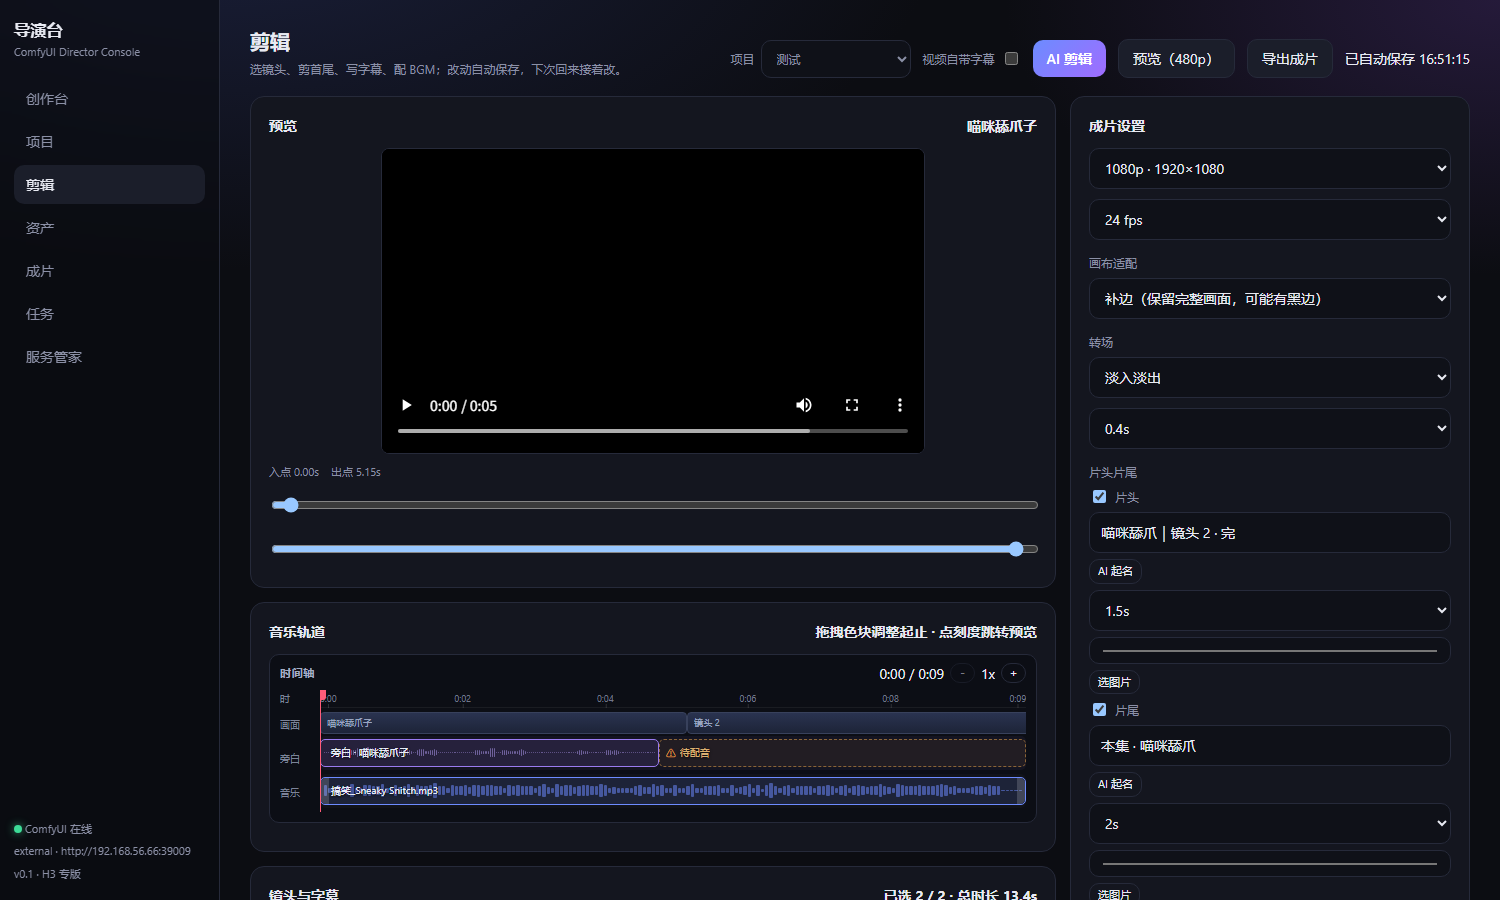
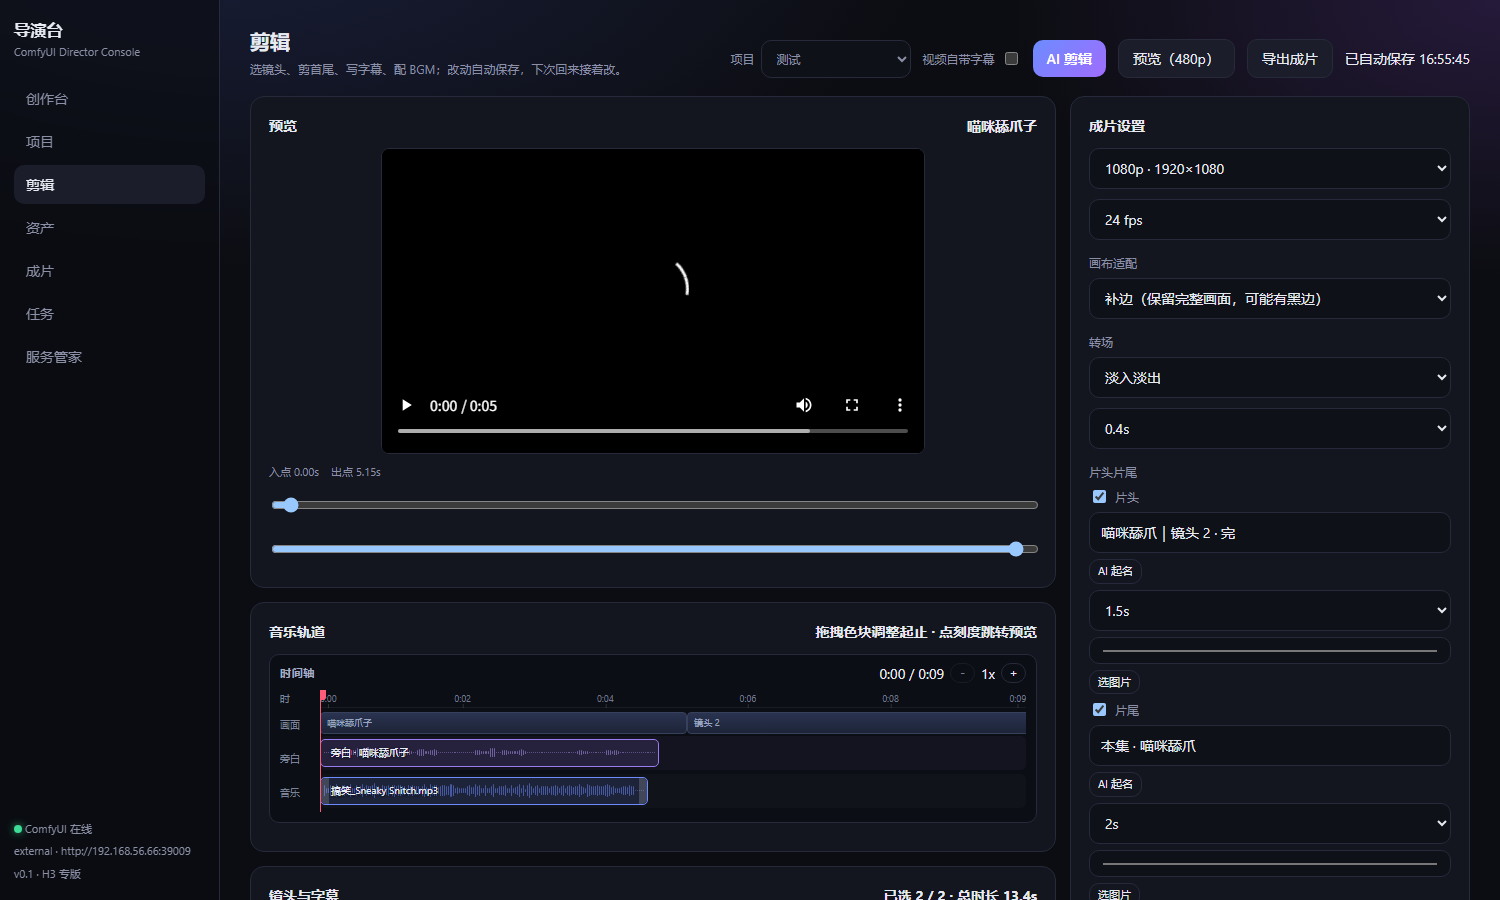
feat(剪辑): 旁白块双击试听，试听统一按区间结束自动停止

Changed region(s): [[0.2147, 0.8089, 0.7053, 0.9022]]

diff --git a/web/src/components/BgmTimeline.tsx b/web/src/components/BgmTimeline.tsx
@@ -59,6 +59,7 @@ export default function BgmTimeline({
   const [zoom, setZoom] = useState(1)
   const [peaks, setPeaks] = useState<Record<string, number[]>>({})
   const [audition, setAudition] = useState('')
+  const auditionEnd = useRef(0)
   const [drag, setDrag] = useState<{
     id: string; mode: DragMode; x0: number; start0: number; end0: number; endOpen: boolean; width: number; moved: boolean
   } | null>(null)
@@ -147,26 +148,38 @@ export default function BgmTimeline({
     onSeek(ratio * total)
   }
 
-  const auditionTrack = async (track: BgmTrackView) => {
-    const url = urls[track.asset_id]
+  const playSegment = async (key: string, assetId: string, from: number, until: number, volume: number) => {
+    const url = urls[assetId]
     if (!url) return
-    if (audition === track.id) {
-      audioRef.current?.pause()
+    const audio = audioRef.current
+    if (!audio) return
+    if (audition === key) {
+      audio.pause()
       setAudition('')
       return
     }
-    const audio = audioRef.current
-    if (!audio) return
+    audio.pause()
     audio.src = url
-    audio.currentTime = track.start
-    audio.volume = Math.max(0, Math.min(1, Math.pow(10, track.volume_db / 20)))
+    audio.currentTime = Math.max(0, from)
+    audio.volume = Math.max(0, Math.min(1, volume))
+    auditionEnd.current = until
     try {
       await audio.play()
-      setAudition(track.id)
+      setAudition(key)
     } catch {
       setAudition('')
     }
   }
+
+  const auditionTrack = (track: BgmTrackView) =>
+    playSegment(track.id, track.asset_id, track.start, track.end ?? total,
+      Math.pow(10, track.volume_db / 20))
+
+  // 旁白：从 0 播到镜头区间结束
+  const auditionNarration = (clip: NarrationClip) =>
+    playSegment(`nar:${clip.shot_id}`, clip.asset_id, 0,
+      clip.audio_duration > 0 ? Math.min(clip.audio_duration, clip.end - clip.start) : clip.end - clip.start,
+      1)
 
   useEffect(() => {
     const audio = audioRef.current
@@ -176,21 +189,19 @@ export default function BgmTimeline({
     return () => audio.removeEventListener('ended', stop)
   }, [])
 
-  // 试听时到了区间末尾自动停
+  // 试听到区间末尾自动停
   useEffect(() => {
     if (!audition) return
     const timer = window.setInterval(() => {
-      const track = tracks.find((t) => t.id === audition)
       const audio = audioRef.current
-      if (!track || !audio) return
-      const end = track.end ?? total
-      if (!audio.paused && audio.currentTime >= end) {
+      if (!audio || audio.paused) return
+      if (audio.currentTime >= auditionEnd.current - 0.02) {
         audio.pause()
         setAudition('')
       }
-    }, 200)
+    }, 120)
     return () => window.clearInterval(timer)
-  }, [audition, tracks, total])
+  }, [audition])
 
   const ticks = buildTicks(total, zoom)
 
@@ -272,14 +283,15 @@ export default function BgmTimeline({
                          className="tl-clip tl-clip-narration"
                          style={{ left: `${left}%`, width: `${width}%`, borderColor: '#9a7bf0', background: '#9a7bf022' }}
                          onClick={(event) => { event.stopPropagation(); onSelectShot?.(clip.shot_id) }}
-                         title={`${clip.title} · 旁白 ${clip.audio_duration.toFixed(1)}s`}>
+                         onDoubleClick={() => void auditionNarration(clip)}
+                         title={`${clip.title} · 旁白 ${clip.audio_duration.toFixed(1)}s（双击试听）`}>
                       <div className="tl-wave">
                         {bars.map((peak, i) => (
                           <i key={i} style={{ height: `${Math.max(peak * 100, 6)}%`, background: '#b39cf5' }} />
                         ))}
                       </div>
                       <span className="tl-clip-label">
-                        {clip.asset_id ? `旁白 · ${clip.title}` : '无旁白'}
+                        {audition === `nar:${clip.shot_id}` ? '▶ ' : ''}旁白 · {clip.title}
                       </span>
                     </div>
                   )
